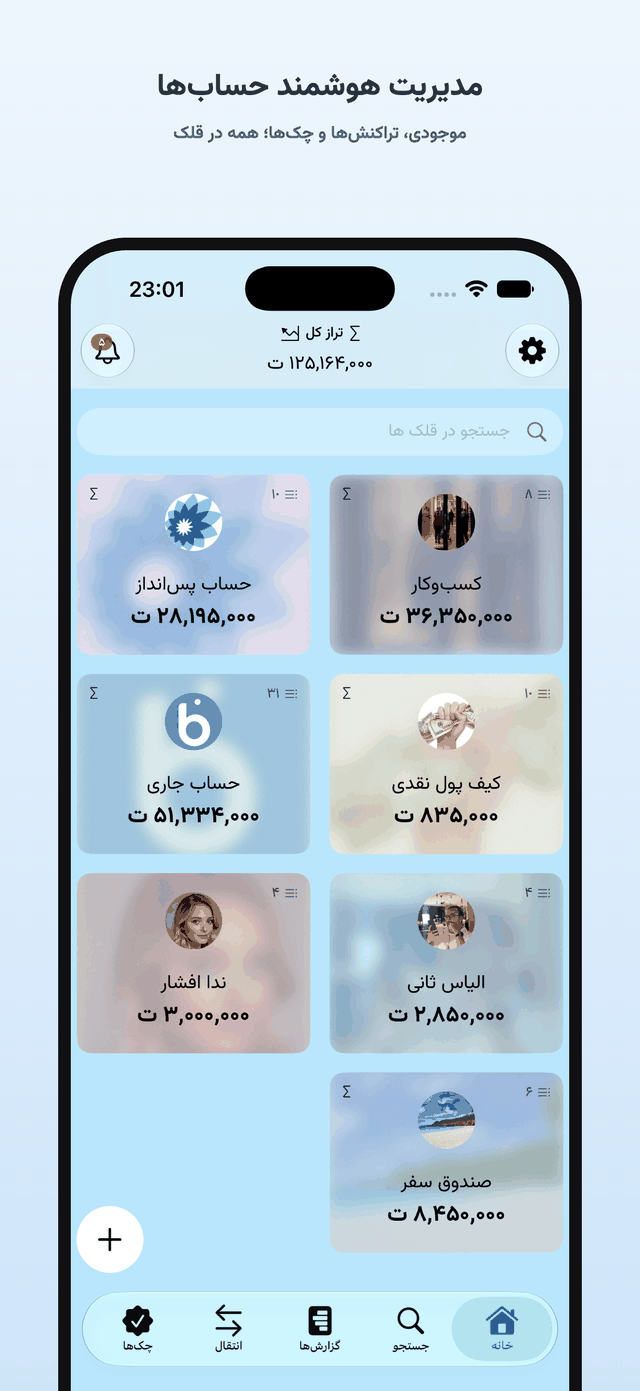
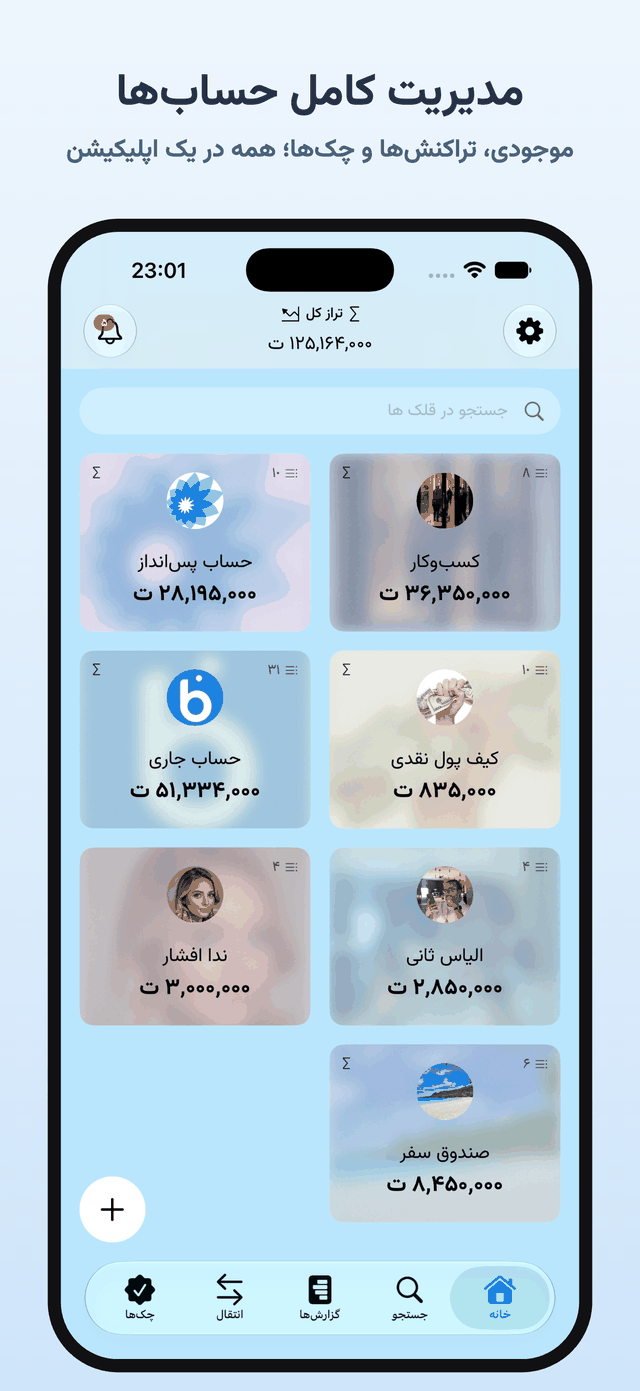
Fix wrong Persian gallery screenshot, address remaining border artifact
Regenerates the gallery's all-accounts-fa.png from the correct source
(/Users/elyas/Desktop/0x0ss (17).png — the same one already used for
the hero/spotlight cropped version) instead of the wrong screenshot
used previously. Consolidates prepare-assets.py's two separate blocks
for this image into one, since they now share a source.

Removing border-radius wasn't the whole fix for the white edge around
.spotlight-duo images: a thin fringe was still visible, consistent
with the well-known Chromium/WebKit rendering seam on rotated raster
elements. Added a tight 1px solid box-shadow ring (matching the
image's own black bezel edge) to mask it, plus backface-visibility:
hidden, which forces a different compositing path that commonly
eliminates this seam.

Changed region(s): [[0.0625, 0.1546, 0.9375, 1.0], [0.0938, 0.0309, 0.9062, 0.1237]]

diff --git a/index.html b/index.html
@@ -300,8 +300,9 @@
       width: 45%;
       max-width: 230px;
       aspect-ratio: 680 / 1416;
-      box-shadow: 0 20px 40px rgba(var(--ink-rgb),0.15);
+      box-shadow: 0 0 0 1px #000, 0 20px 40px rgba(var(--ink-rgb),0.15);
       position: relative;
+      backface-visibility: hidden;
     }
 
     .spotlight-duo img:first-child {

diff --git a/scripts/prepare-assets.py b/scripts/prepare-assets.py
@@ -45,17 +45,13 @@ SCREENSHOTS = [
     ("ghollak-screenshot (1) copy 2.png", "export-pdf-excel-fa", True),
 ]
 
-# Added later, for the hero's Persian/English duo image. Lives in a
-# different source folder than the rest, so it's handled separately
-# below rather than folded into SCREENSHOTS. Cropped-only (not used in
-# the gallery) since it pairs with the existing all-accounts-en crop.
+# Added later, for the hero's Persian/English duo image and the gallery's
+# Persian counterpart to all-accounts-en. Lives in a different source
+# folder than the rest, so it's handled separately below rather than
+# folded into SCREENSHOTS. Used for both the gallery card and the cropped
+# phone-only version (unlike reports-builder-fa above, which is gallery-only).
 ACCOUNTS_FA_SRC = "/Users/elyas/Desktop/0x0ss (17).png"
 ACCOUNTS_FA_BASENAME = "all-accounts-fa"
-
-# The gallery-card (full marketing card, not cropped) counterpart of the
-# above — same accounts screen, Persian, added later so the gallery pairs
-# it next to all-accounts-en. Gallery-only, like reports-builder-fa above.
-ACCOUNTS_FA_GALLERY_SRC = "/Users/elyas/Downloads/ghollak-screenshot.png"
 
 
 def save_quantized(im, path):
@@ -83,12 +79,9 @@ def main():
     accounts_fa = Image.open(ACCOUNTS_FA_SRC).convert("RGB")
     accounts_fa_cropped = accounts_fa.crop(CROP_BOX).resize(CROPPED_SIZE, Image.LANCZOS)
     save_quantized(accounts_fa_cropped, os.path.join(OUT_CROPPED, f"{ACCOUNTS_FA_BASENAME}.png"))
-    print(f"done: {ACCOUNTS_FA_BASENAME}")
-
-    accounts_fa_gallery = Image.open(ACCOUNTS_FA_GALLERY_SRC).convert("RGB")
-    accounts_fa_gallery_im = accounts_fa_gallery.resize(GALLERY_SIZE, Image.LANCZOS)
+    accounts_fa_gallery_im = accounts_fa.resize(GALLERY_SIZE, Image.LANCZOS)
     save_quantized(accounts_fa_gallery_im, os.path.join(OUT_GALLERY, f"{ACCOUNTS_FA_BASENAME}.png"))
-    print(f"done: {ACCOUNTS_FA_BASENAME} (gallery)")
+    print(f"done: {ACCOUNTS_FA_BASENAME}")
 
     mini = Image.open(ICON_MINI).convert("RGB").resize(ICON_SIZE, Image.LANCZOS)
     mini.save(os.path.join(OUT_ICONS, "ghollak-mini-icon.png"), optimize=True)
